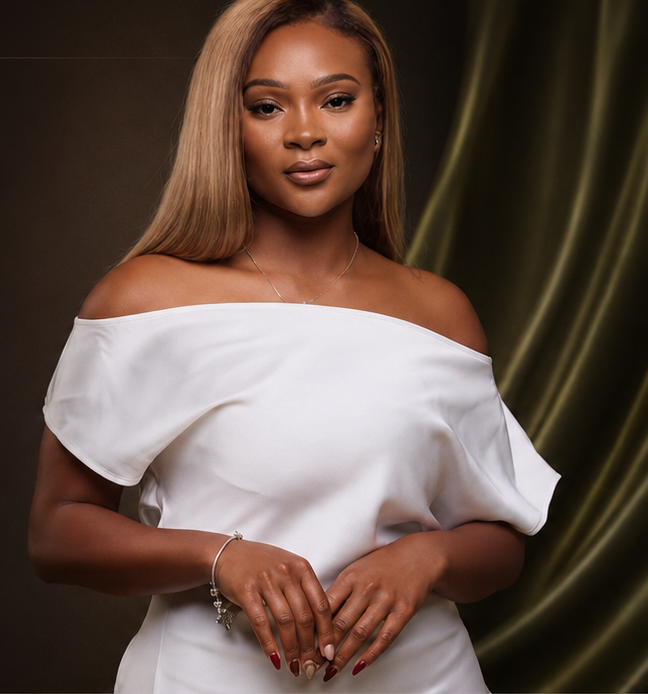
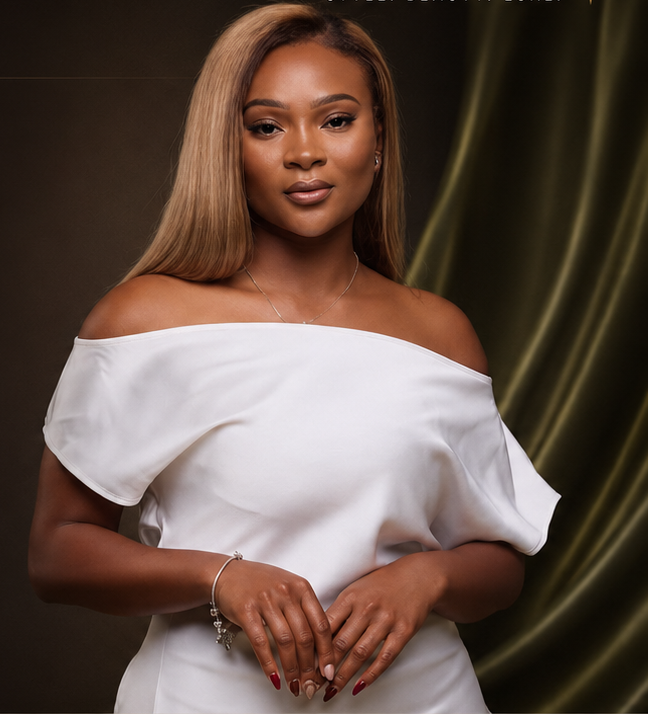
Update hero rotation and mobile crops

diff --git a/src/ComingSoonPage.jsx b/src/ComingSoonPage.jsx
@@ -4,8 +4,9 @@ const heroImages = [
   { src: '/images/mela-mockup-crop-1.png', mobileSrc: '/images/mela-silk-1.jpg' },
   { src: '/images/mela-mockup-crop-2-v2.png', mobileSrc: '/images/mela-silk-4.jpg' },
   { src: '/images/mela-mockup-crop-3.png', mobileSrc: '/images/mela-silk-5.jpg' },
-  { src: '/images/mela-mockup-crop-4.png', mobileSrc: '/images/mela-silk-4.jpg' },
+  { src: '/images/mela-mockup-crop-4.png', mobileSrc: '/images/mela-mobile-hero-4.png' },
   { src: '/images/mela-mockup-crop-5.png', mobileSrc: '/images/mela-mobile-hero-5.png' },
+  { src: '/images/mela-mockup-crop-red.png', mobileSrc: '/images/mela-mobile-hero-red.jpg' },
 ];
 
 const Icon = ({ name, size = 28 }) => {

diff --git a/src/styles.css b/src/styles.css
@@ -73,6 +73,7 @@ h1 { white-space: nowrap; margin: 0 0 4px; color: var(--soft-gold); text-transfo
   .portrait[data-hero="3"] img { object-position: 57% 8%; transform: scale(1.56) translateX(-15%); transform-origin: center top; }
   .portrait[data-hero="4"] img { object-position: 54% 7%; transform: scale(1.08) translateY(-1%); }
   .portrait[data-hero="5"] img { object-position: 50% 8%; transform: scale(1.12) translateX(-2%); transform-origin: center top; }
+  .portrait[data-hero="6"] img { object-position: 56% 24%; transform: scale(1.55) translate(-8%, -13%); transform-origin: center top; }
   .portrait-wash { background: linear-gradient(0deg, var(--espresso-dark) 0%, rgb(18 12 10 / .48) 13%, transparent 42%), linear-gradient(90deg, rgb(18 12 10 / .18), transparent 35%); }
   h1 { white-space: normal; font-size: clamp(52px, 17vw, 74px); line-height: .84; letter-spacing: .018em; }
   .ornament { margin: 18px 0 15px; max-width: 430px; }